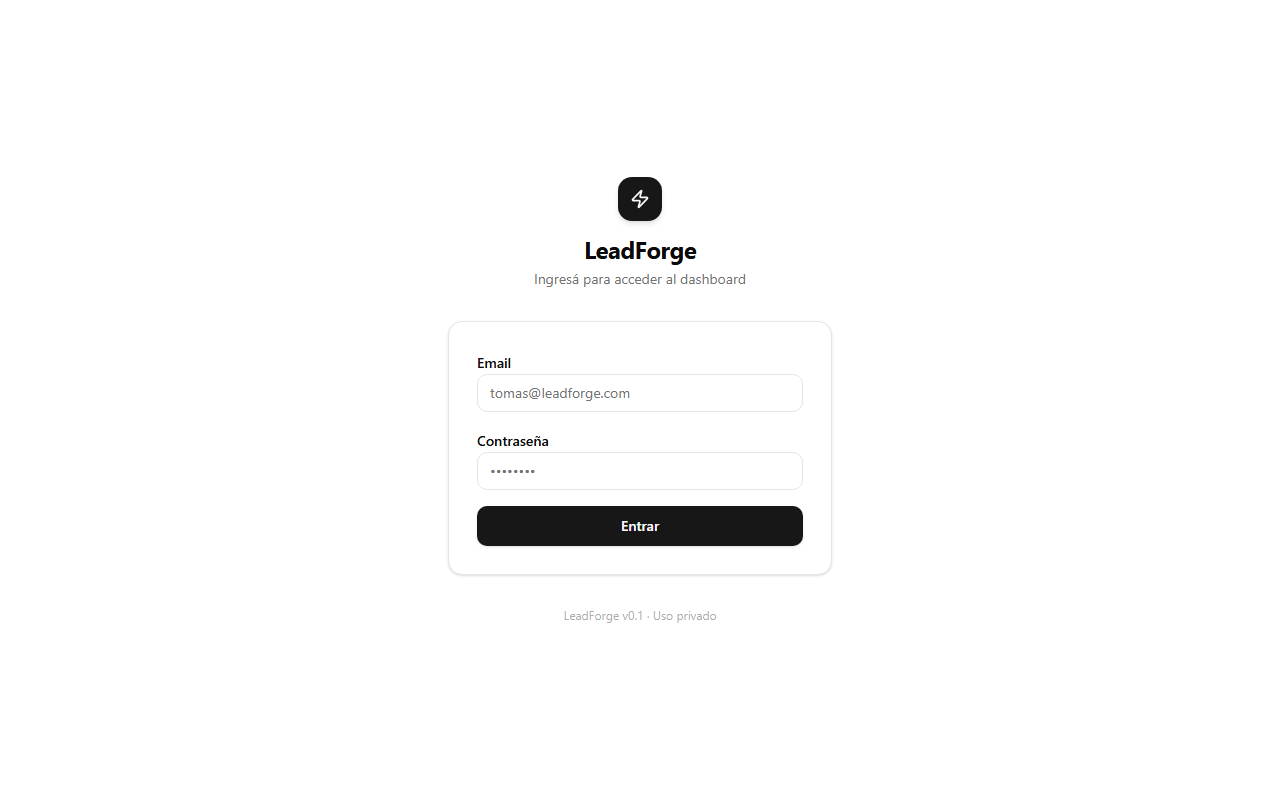
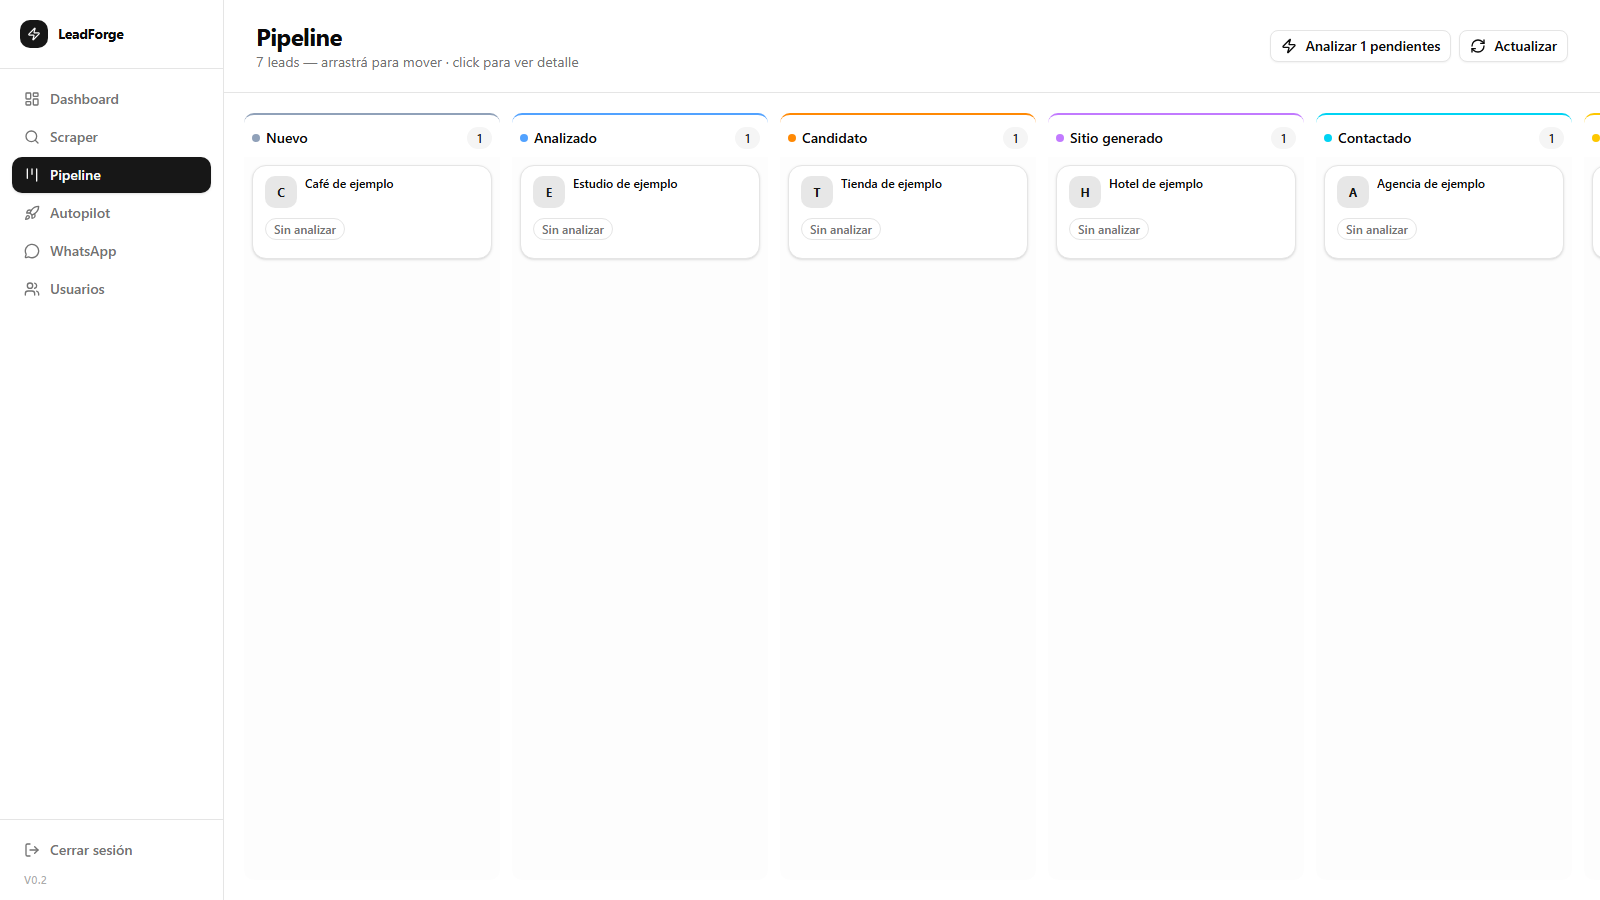
content: replace LeadForge login image with pipeline

diff --git a/index.html b/index.html
@@ -109,7 +109,7 @@
           <div class="project-index" aria-hidden="true">05</div>
           <div class="project-name"><p class="eyebrow">Ventas / IA aplicada</p><h3 id="leadforge-titulo">LeadForge</h3></div>
           <div class="project-copy"><p>De encontrar un negocio a presentarle una propuesta web. LeadForge conecta la búsqueda y calificación de potenciales clientes con la generación de sitios y el seguimiento comercial.</p><p class="contribution"><strong>Mi aporte</strong> Desarrollo de flujos de prospección, generación web con IA y gestión de oportunidades en el CRM.</p><p class="stack">Next.js · TypeScript · Supabase · IA</p></div>
-          <div class="product-gallery"><figure><a href="images/products/leadforge.png" aria-label="Ampliar imagen de LeadForge"><img src="images/products/leadforge.png" alt="Pantalla de acceso de LeadForge, capturada desde el código local" width="1280" height="800" loading="lazy" decoding="async"></a><figcaption>LeadForge · Acceso</figcaption></figure></div>
+          <div class="product-gallery"><figure><a href="images/products/leadforge.png" aria-label="Ampliar imagen de LeadForge"><img src="images/products/leadforge.png" alt="Pipeline comercial de LeadForge con datos de ejemplo" width="1600" height="900" loading="lazy" decoding="async"></a><figcaption>LeadForge · Pipeline con datos de ejemplo</figcaption></figure></div>
         </article>
         <article class="project-row" aria-labelledby="vegan-titulo">
           <div class="project-index" aria-hidden="true">06</div>

diff --git a/README.md b/README.md
@@ -21,4 +21,6 @@ Imágenes: capturas del 11 de septiembre de 2026 de las páginas públicas enlaz
 
 El rediseño conserva el dominio, la verificación de Meta, los recursos anteriores y `privacy.html`. Su reversión se limita al commit del portfolio, sin modificar los proyectos referenciados.
 
-LeadForge y Vegan Map: descripciones basadas en el código local. LeadForge usa una captura del componente de acceso local; la URL indicada en GitHub abre Noverionex CRM, por lo que se omite. Vegan Map usa una captura del listado móvil público en https://vegan-map.vercel.app/; el mapa de Google presenta un error y no se enlaza como demo verificada. No se publican cifras de adopción para estos productos.
+LeadForge y Vegan Map: descripciones basadas en el código local. LeadForge usa una captura del pipeline local con datos ficticios identificados como ejemplos; la URL indicada en GitHub abre Noverionex CRM, por lo que se omite. Vegan Map usa una captura del listado móvil público en https://vegan-map.vercel.app/; el mapa de Google presenta un error y no se enlaza como demo verificada. No se publican cifras de adopción para estos productos.
+
+La captura desktop de Vegan Map está pendiente: tanto la clave de la página publicada como la configuración local devuelven `ExpiredKeyMapError`. Se conserva temporalmente la imagen móvil anterior.
